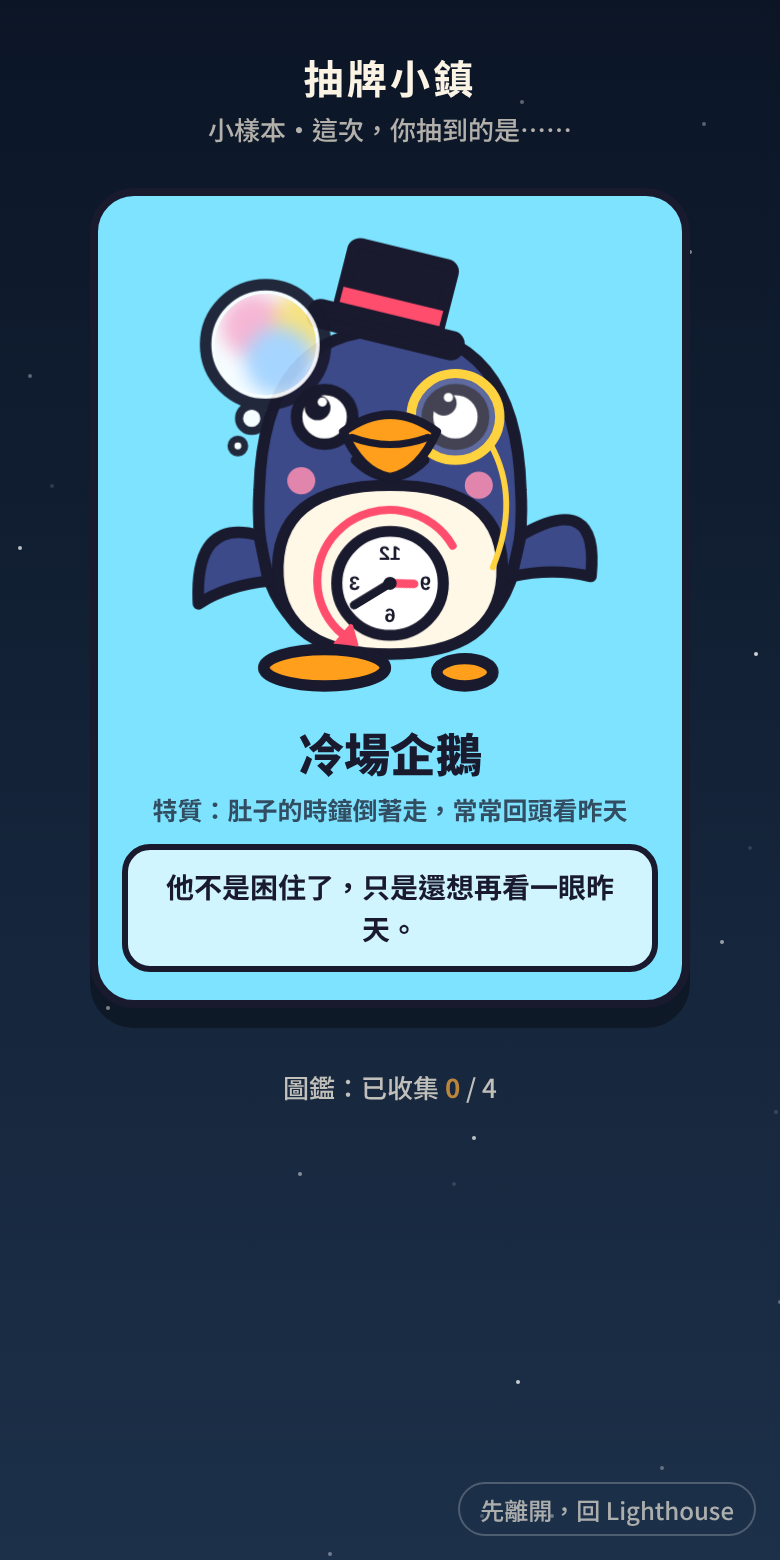
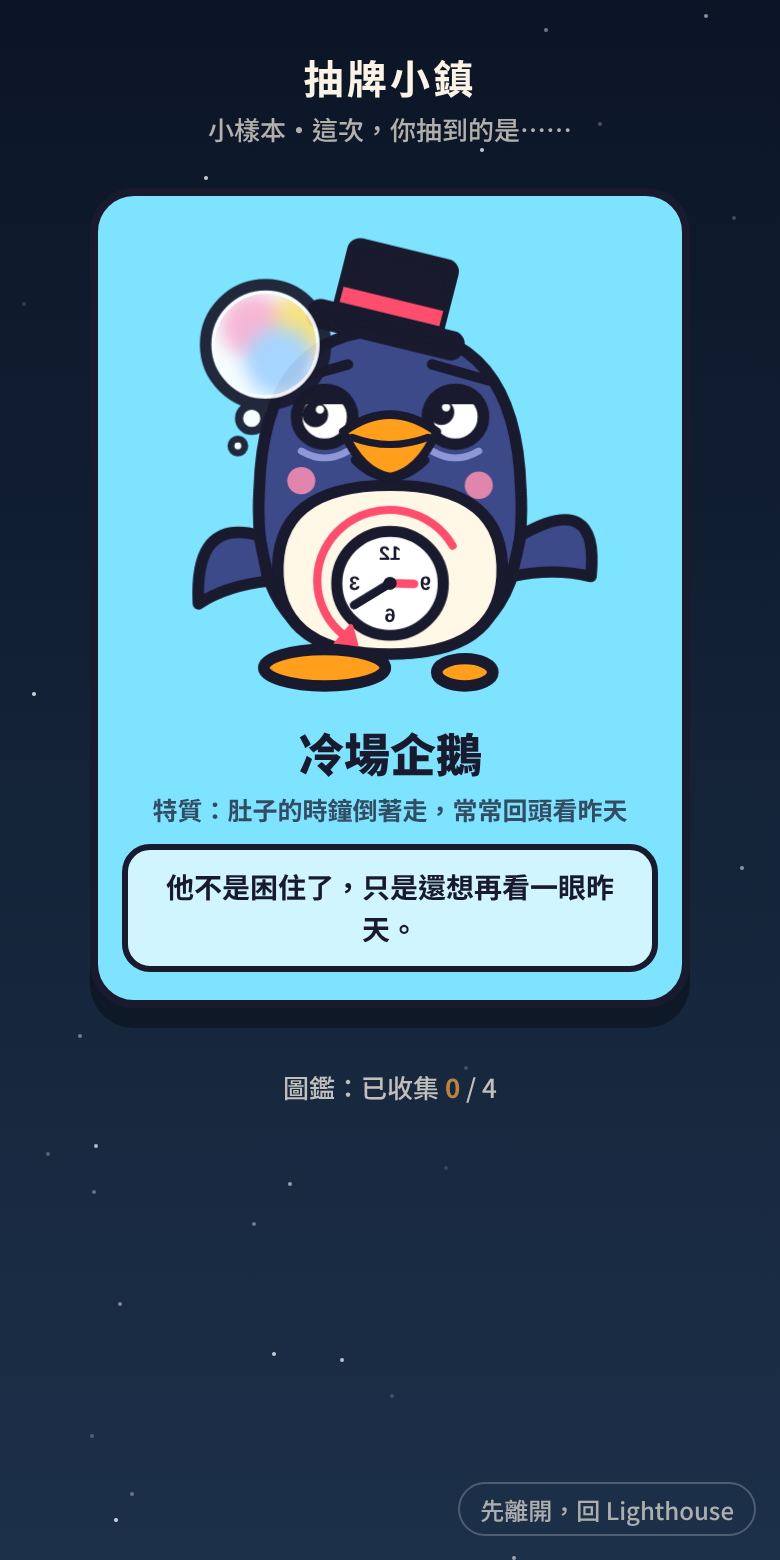
Lighthouse: 抽牌小樣本，企鵝拿掉單片眼鏡，改成垂眼、眼袋、八字眉的懷念神情
Claude-Session: https://claude.ai/code/session_01QMXbFy7GatcecM2zJaJAS8

diff --git a/lighthouse/cards-sample.html b/lighthouse/cards-sample.html
@@ -158,10 +158,11 @@ const ART = {
     <path d="M100 30 Q154 30 156 100 Q160 172 100 172 Q40 172 44 100 Q46 30 100 30Z" fill="#3c4a8a" ${o}/>
     <g transform="rotate(14 100 22)"><rect x="78" y="-4" width="44" height="34" rx="3" fill="#1a1a2e" ${o}/><rect x="68" y="26" width="64" height="8" rx="3" fill="#1a1a2e" ${o}/><rect x="78" y="16" width="44" height="7" fill="#ff4d6d"/></g>
     <path d="M100 98 Q150 98 148 138 Q146 172 100 172 Q54 172 52 138 Q50 98 100 98Z" fill="#fff8e7" ${o}/>
-    <g class="blink"><circle cx="72" cy="68" r="12" fill="#fff" ${o}/><circle cx="69" cy="64" r="5.5" fill="${INK}"/><circle cx="71" cy="61.5" r="2" fill="#fff"/></g>
-    <g class="blink"><circle cx="128" cy="68" r="12" fill="#fff" ${o}/><circle cx="123" cy="62" r="5.5" fill="${INK}"/><circle cx="125" cy="59.5" r="2" fill="#fff"/></g>
-    <circle cx="128" cy="68" r="19" fill="#ffffff" fill-opacity=".18" stroke="#ffd23f" stroke-width="4"/>
-    <path d="M143 80 Q156 104 144 134" fill="none" stroke="#ffd23f" stroke-width="2.5" stroke-linecap="round"/>
+    <g class="blink"><circle cx="72" cy="68" r="12" fill="#fff" ${o}/><circle cx="68" cy="67" r="5.5" fill="${INK}"/><circle cx="70" cy="64.8" r="1.8" fill="#fff"/></g>
+    <g class="blink"><circle cx="128" cy="68" r="12" fill="#fff" ${o}/><circle cx="122" cy="66" r="5.5" fill="${INK}"/><circle cx="124" cy="63.8" r="1.8" fill="#fff"/></g>
+    <path d="M63.1 60 A12 12 0 0 1 80.9 60 Z" fill="#3c4a8a" ${o}/><path d="M119.1 60 A12 12 0 0 1 136.9 60 Z" fill="#3c4a8a" ${o}/>
+    <path d="M58 52 L82 45 M118 45 L142 52" fill="none" stroke="${INK}" stroke-width="4.5" stroke-linecap="round"/>
+    <path d="M62 83 Q72 89 82 83 M118 83 Q128 89 138 83" fill="none" stroke="#8f98d6" stroke-width="3" stroke-linecap="round"/>
     <circle cx="62" cy="96" r="6" fill="#ff8fb1" opacity=".85"/><circle cx="138" cy="98" r="6" fill="#ff8fb1" opacity=".85"/>
     <g transform="translate(100 82) scale(1.25) translate(-100 -82)"><path d="M88 86 Q100 98 112 86 Q100 90 88 86Z" fill="#ffc24d" stroke="${INK}" stroke-width="3" stroke-linejoin="round"/>
     <path d="M84 76 Q100 64 116 76 Q110 90 100 92 Q90 90 84 76Z" fill="#ff9f1c" stroke="${INK}" stroke-width="3" stroke-linejoin="round"/>
